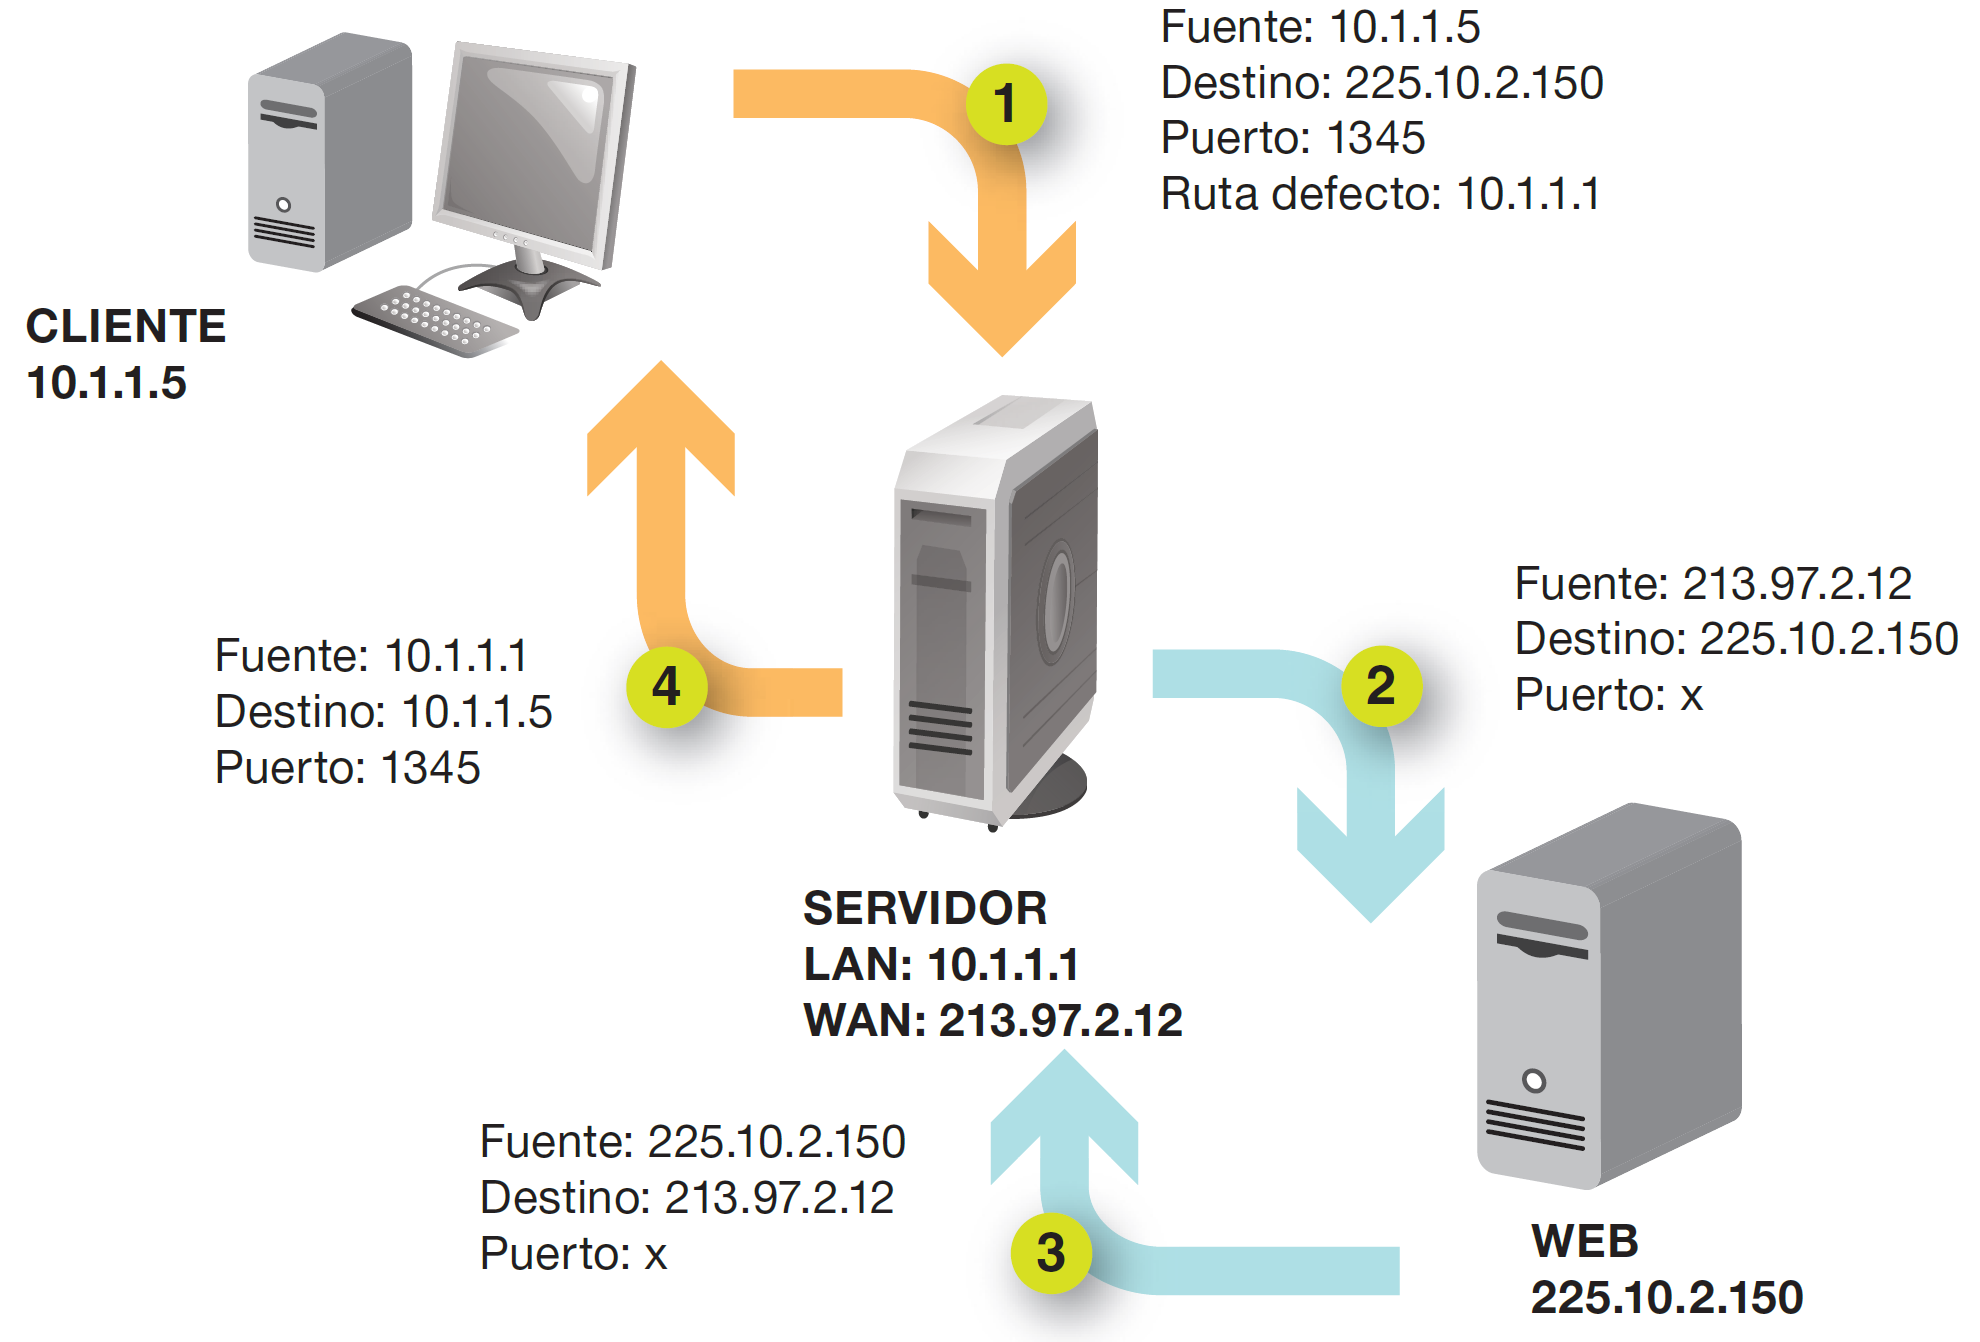
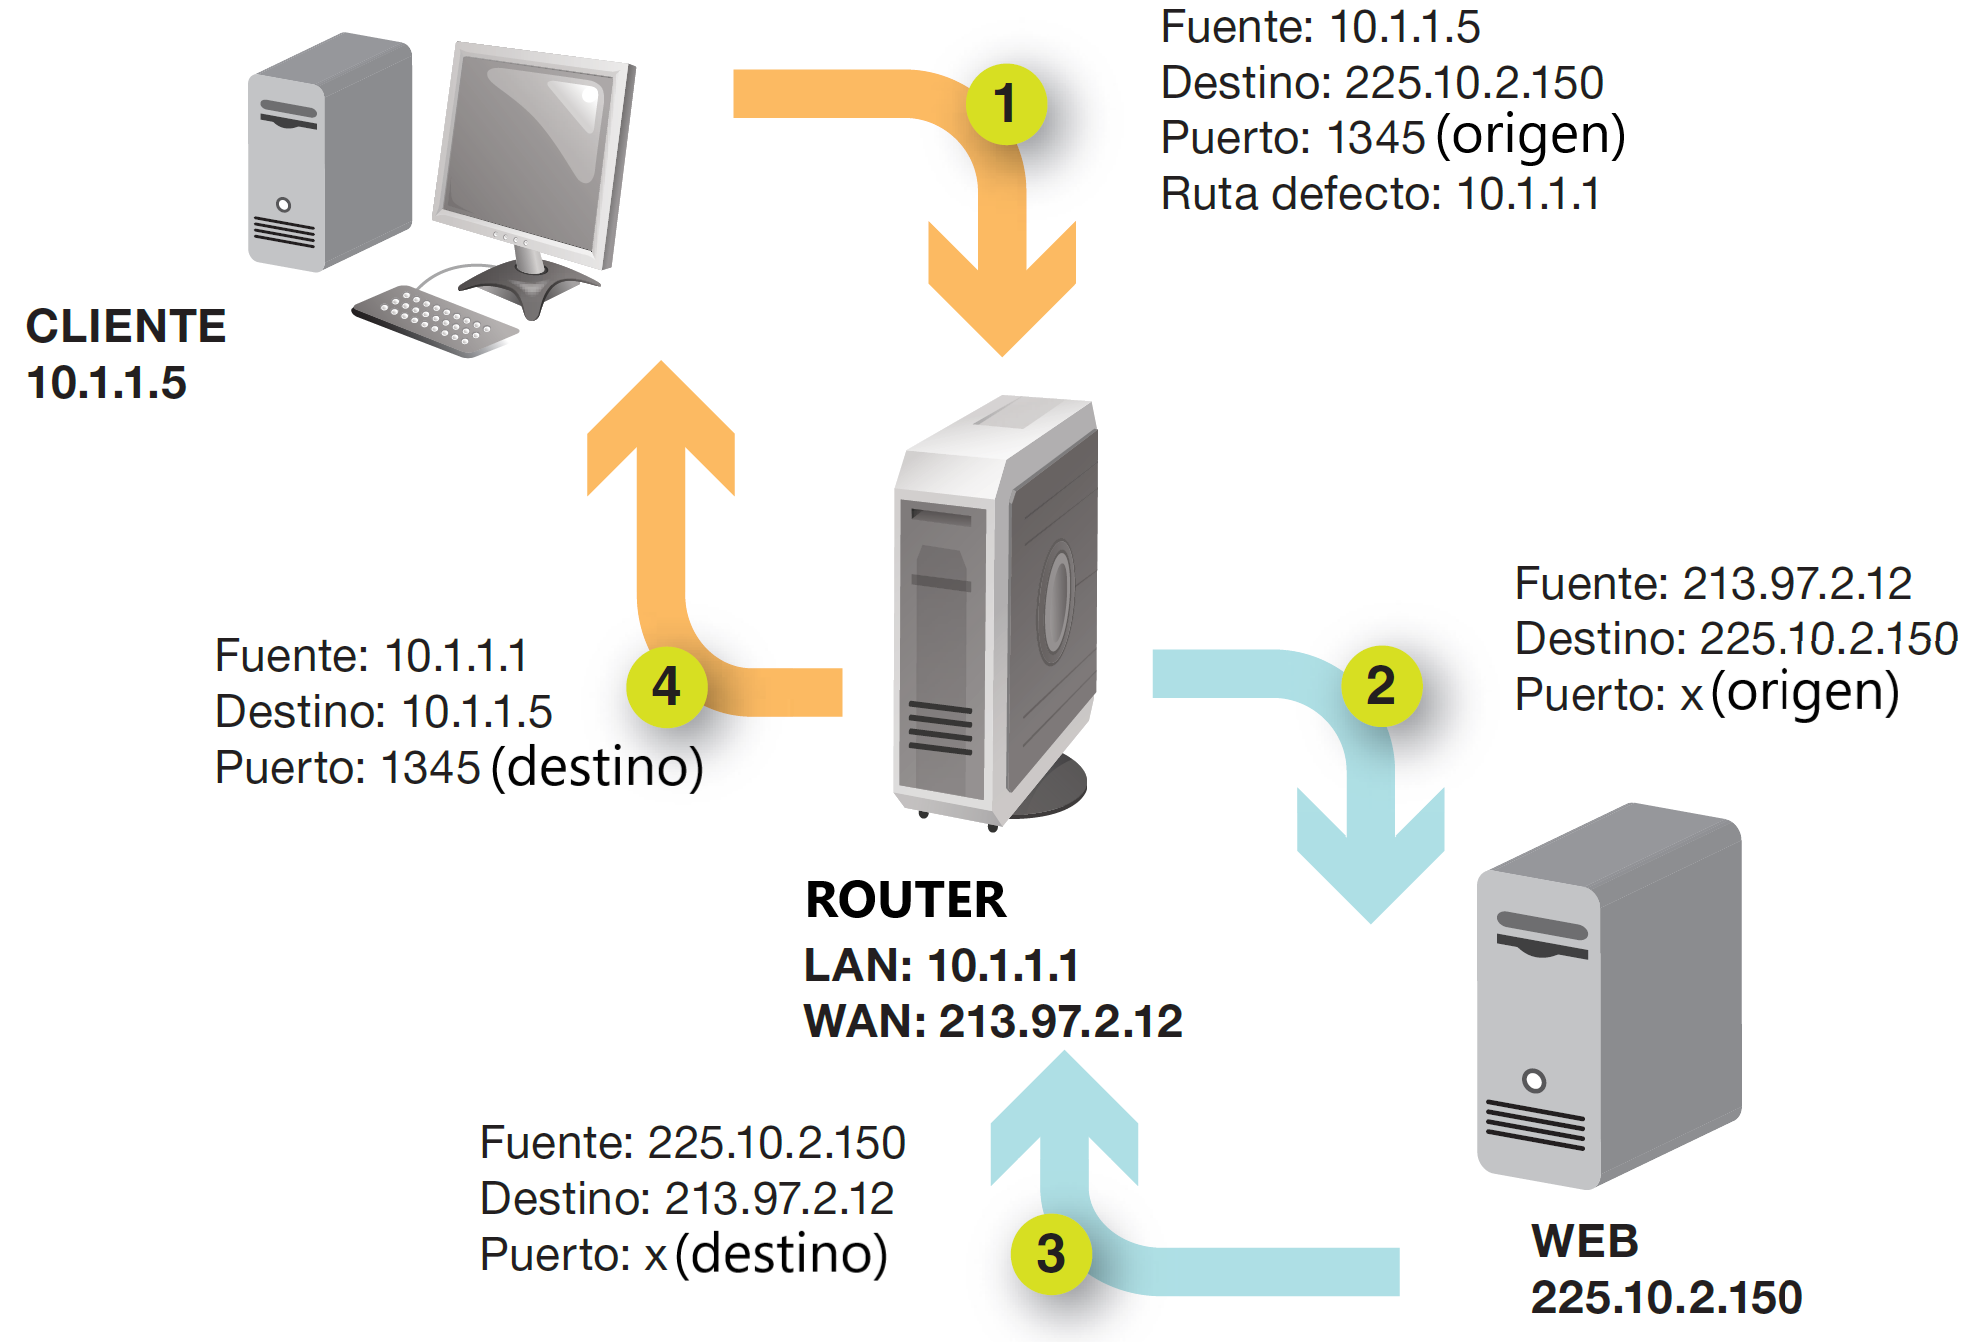
wip

diff --git a/_posts/2022-11-13-capa-transporte.md b/_posts/2022-11-13-capa-transporte.md
@@ -25,33 +25,41 @@ La capa de transporte incluye dos protocolos:
 
 La capa de transporte tiene muchas responsabilidades:
 
-- Seguimiento de conversaciones individuales.
-- Segmentación de datos y reensamblado de segmentos.
+- Seguir conversaciones individuales.
+- Segmentar datos en segmentos y reensamblar los segmentos.
 - Agregar información de encabezado.
-- Identificando las aplicaciones.
-- Multiplexación de conversación.
+- **Identificar las aplicaciones que se conectan a la red.**
+- Multiplexar conversaciones.
 
 {:.section}
 ## ¿Qué es un puerto? ¿Qué es un socket?
 
-Los puertos juegan un papel básico en una conexión de red porque es el sistema por el que se identifican las aplicaciones o servicios que participan en ella. Cuando establecemos una conexión, a las aplicaciones implicadas en ella se les asigna un número entre 0 y 65535 y es el identificador que va a diferenciar esa aplicación en concreto del resto de las aplicaciones del equipo. Eso es lo que llamamos puerto.
+Los puertos juegan un papel básico en una conexión de red porque es el sistema por el que se identifican las aplicaciones o servicios que participan en ella. Cuando establecemos una conexión, a las aplicaciones implicadas en ella se les asigna un número entre 0 y 65535. Este número es el identificador que va a diferenciar esa aplicación en concreto del resto de las aplicaciones del equipo. Eso es lo que llamamos puerto.
 
-Ya sabemos que en una conexión de internet enviamos la información troceada en paquetes y que en esos paquetes debemos indicar la IP origen y destino para poder localizar ambos equipos en la red. Además de las IPs de origen y destino en el paquete también deberemos incluir la información de puerto origen y destino. De esta manera además de localizar los equipos involucrados en la conexión seremos capaces de identificar las aplicaciones en concreto que participan en ella.
+Ya sabemos que en una conexión de internet enviamos la información troceada en paquetes y que en esos paquetes debemos indicar la IP origen y destino para poder localizar ambos equipos en la red. Además de las IPs de origen y destino en el paquete también deberemos incluir la información de puerto origen y destino. De esta manera además de localizar los equipos involucrados en la conexión **seremos capaces de identificar las aplicaciones en concreto** que participan en ella.
 
 ![Conexión y sockets](socket.png)
 _Conexión y sockets_
 
-Al conjunto IP - Puerto es lo que llamamos socket y se escribe poniendo primero IP seguido de dos puntos y a continuación el puerto. Por ejemplo un socket tendría esta forma: 145.34.210.89:4578
+Al conjunto IP - Puerto es lo que llamamos socket y se escribe poniendo primero IP seguido de dos puntos y a continuación el puerto. Por ejemplo un socket tendría esta forma: 145.34.210.89:4578.
 
-Por lo tanto la conexión se establece entre 2 sockets y queda identificada de manera única porque los sockets implicados en dicha conexión son únicos. No existe ninguna otra conexión que tenga esos dos mismos sockets. Puede haber otras conexiones con uno de los 2 sockets, pero nunca los 2.
+Por lo tanto, la conexión se establece entre 2 sockets y queda identificada de manera única porque los sockets implicados en dicha conexión son únicos. No existe ninguna otra conexión que tenga esos dos mismos sockets. Puede haber otras conexiones con uno de los 2 sockets, pero nunca los 2.
 
 <iframe src="https://www.youtube.com/embed/-7DiO35rbN8" title="YouTube video player" frameborder="0" allow="accelerometer; autoplay; clipboard-write; encrypted-media; gyroscope; picture-in-picture" allowfullscreen></iframe>
 
-{:.question}
-¿Qué es un socket?
+Preguntas sobre el vídeo:
 
-{:.question}
-¿Qué es una conexión?
+- ¿Qué analogía pone de ejemplo en el vídeo sobre los puertos?
+- ¿Cuál es el rango de puertos? ¿Por qué?
+- ¿Qué puerto usan por defecto los servidores web?
+- ¿Puedo tener dos servidores web en el mismo host físico?
+- ¿Un cliente web a que puerto destino envía los mensajes por defecto?
+- ¿Qué es un socket?
+- ¿Qué es una conexión?
+- En la arquitectura cliente-servidor ¿qué es un cliente?
+- ¿Qué analogía usa en el vídeo sobre la arquitectura cliente-servidor?
+- ¿Cada navegador tiene un número de puerto diferente?
+- ¿Cada pestaña de cada navegador tiene un número de puerto diferente?
 
 {:.section}
 ## Tipos de puertos
@@ -59,8 +67,8 @@ Por lo tanto la conexión se establece entre 2 sockets y queda identificada de m
 En un equipo informático tenemos distintos tipos de puerto dependiendo de su número y de su función:
 
 - **Puerto reservado**: El 0.
-- **Puertos bien conocidos**: Del 1 al 1023. Son aquellos que están reservados para los protocolos , programas y servicios establecidos universalmente y conocidos por todos. Este rango de puertos está reservado para el sistema operativo y sólo puede asignarlo en usuario con privilegios elevados como un superusuario (root). Esto es porque son servicios bastante críticos y si un usuario cualquiera pudiera abrirlos podría generar problemas de seguridad.
-  - Dentro de los puertos bien conocidos estarían el servidor web (80), servidor web seguro (443), SSH (22), DNS (53), FTP (21), ...
+- **Puertos bien conocidos**: Del 1 al 1023. Son aquellos que están reservados para los protocolos, programas y servicios establecidos universalmente y conocidos por todos. Este rango de puertos está reservado para el sistema operativo y sólo puede asignarlo el usuario con privilegios elevados como un superusuario (root). Esto es porque son servicios bastante críticos y si un usuario cualquiera pudiera abrirlos podría generar problemas de seguridad.
+  - Dentro de los puertos bien conocidos estarían el servidor web (80 - HTTP), servidor web seguro (443 - HTTPS), SSH (22), DNS (53), FTP (21), ...
 - **Puertos registrados**: Del 1024 al 49151. Estos puertos están asignados por la IANA y van desde el 1024 hasta el 49151. Los puertos registrados son los que utilizan las aplicaciones cuando queremos conectarnos a ellas. Dentro de este grupo estarían todos los servicios y aplicaciones que podemos instalar en un equipo. Aquí estarían comprendidos los juegos, aplicaciones de mensajería, voz sobre IP (VoIP),...
   - Por ejemplo en los puertos registrados tenemos: Plex (32400), SIP (5060), VNC (5900), Zerotier (9993), Battlefield (14567), ...
 - **Puertos efímeros**: Del 49152 al 65535. Son unos puertos temporales de usar y tirar que el sistema operativo asigna a las aplicaciones cuando los necesitan. Una vez que la conexión ha terminado ese puerto queda libre y puede ser reutilizado nuevamente por cualquier otra aplicación.

diff --git a/_posts/2022-02-08-nat.md b/_posts/2022-02-08-nat.md
@@ -216,18 +216,18 @@ PAT intenta conservar el puerto de origen inicial. Sin embargo, si el puerto de 
 {:.subsubsection}
 #### Ejemplo de funcionamiento PAT
 
-Supongamos que tenemos un host, que llamaremos CLIENTE y que tiene por dirección IP 10.1.1.5 y máscara de toda la red 255.0.0.0, que quiere acceder a Internet solicitando páginas a través de su navegador. La conexión a Internet se ha realizado en otro host de la red al que llamaremos SERVIDOR con dirección IP 10.1.1.1 y que está en la misma subred que CLIENTE.
+Supongamos que tenemos un host, que llamaremos CLIENTE y que tiene por dirección IP 10.1.1.5 y máscara de toda la red 255.0.0.0, que quiere acceder a Internet solicitando páginas a través de su navegador. La conexión a Internet se ha realizado en otro host de la red al que llamaremos ROUTER con dirección IP 10.1.1.1 y que está en la misma red que CLIENTE.
 
-Cuando SERVIDOR realiza una conexión a Internet, su proveedor le proporciona una dirección IP a la interfaz de red WAN por la que se conecta remotamente que es 213.97.2.12.
+Cuando el ROUTER realiza una conexión a Internet, su proveedor le proporciona una dirección IP a la interfaz de red WAN por la que se conecta remotamente que es 213.97.2.12.
 
 Debemos tener en cuenta que los pasos 1 y 4 se producen dentro de una LAN, mientras que los números 2 y 3 proceden de una WAN.
 
 ![img-description](ejemploNat.png)
 _Esquema de un ejemplo de utilización de enmascaramiento IP_
 
-En CLIENTE, configuramos TCP/IP para que la ruta por defecto apunte a SERVIDOR. Por otra parte, por ejemplo, el navegador pediría datos utilizando un puerto que el servidor que le brinde las páginas aprovechará para enviárselas con la seguridad de que el navegador se quedó escuchando por ese puerto.
+El CLIENTE lo configuraremos para que la ruta por defecto apunte a ROUTER.
 
-Si el navegador en CLIENTE solicita una página al servidor 225.10.2.150 por el puerto 1345, como CLIENTE no tiene acceso por red al host 225.10.2.150, mandará el mensaje por la ruta de defecto a SERVIDOR. Si SERVIDOR tiene habilitado el servicio de enmascaramiento, sustituirá la dirección IP de CLIENTE por la suya propia en la interfaz WAN (213.97.2.12) y el número de puerto por otro que tenga libre, haciéndole la petición al servidor web de dirección 225.10.2.150. Cuando el servidor web le conteste, SERVIDOR sustituirá la dirección IP WAN suya (213.97.2.12) por la dirección IP propia en su red de área local (10.1.1.1) y se lo mandará a CLIENTE por el puerto por el que este se quedó esperando, en nuestro ejemplo, el 1345. De este modo, CLIENTE ha recibido sus datos transparentemente.
+Si el navegador en el CLIENTE solicita una página al servidor 225.10.2.150 por el puerto 1345, como el CLIENTE no tiene acceso por red al host 225.10.2.150, mandará el mensaje por la ruta de defecto al ROUTER. Si el ROUTER tiene habilitado el servicio de enmascaramiento, sustituirá la dirección IP del CLIENTE por la suya propia en la interfaz WAN (213.97.2.12) y el número de puerto por otro que tenga libre, haciéndole la petición al servidor web cuya dirección es 225.10.2.150. Cuando el servidor web le conteste, el ROUTER sustituirá la dirección IP WAN suya (213.97.2.12) por la dirección IP propia en su red de área local (10.1.1.1) y se lo mandará a CLIENTE por el puerto por el que este se quedó esperando, en nuestro ejemplo, el 1345. De este modo, CLIENTE ha recibido sus datos transparentemente, es decir, sin enterarse de nada.
 
 ## Bibliografía
 
